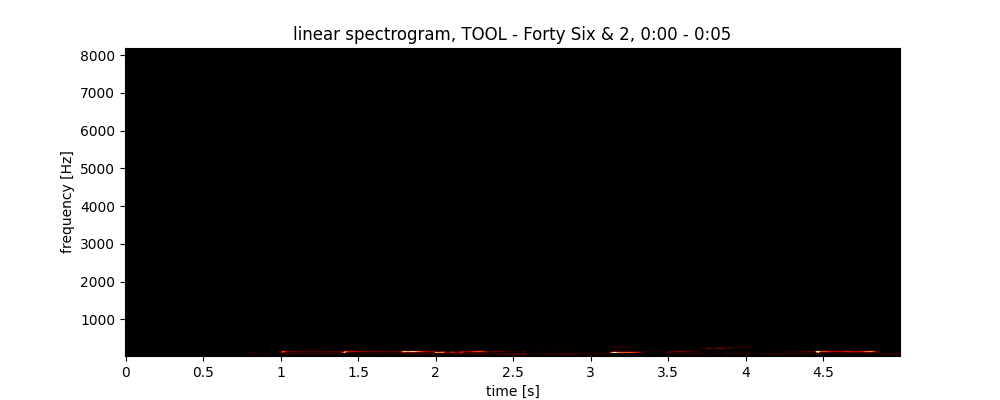
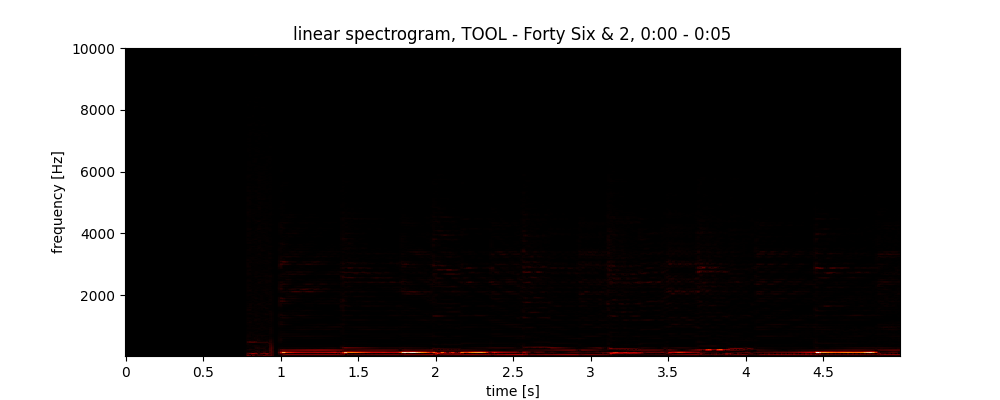
linear spectrogram fix

diff --git a/classes/spectrograms/LinearSpectrogram.py b/classes/spectrograms/LinearSpectrogram.py
@@ -23,7 +23,7 @@ class LinearSpectrogramProcessor(SpectrogramProcessorBase):
             y_resampled = librosa.resample(y, orig_sr=original_sr, target_sr=self.sample_rate)
 
             stft = librosa.stft(y_resampled, n_fft=self.window_length, win_length=2048, window='hann', hop_length=self.hop_length)
-            magnitude_spectrogram = np.abs(stft) ** 2
+            magnitude_spectrogram = np.abs(stft)
 
             spectrogram_transposed = magnitude_spectrogram.T
             return spectrogram_transposed
@@ -44,6 +44,6 @@ class LinearSpectrogramProcessor(SpectrogramProcessorBase):
         plt.ylabel('frequency [Hz]')
         plt.xlabel('time [s]')
         plt.title('linear spectrogram')
+        plt.ylim(self.f_min, self.f_max)
         plt.tight_layout()
         plt.show()
-

diff --git a/test_files/test_spectrogram.py b/test_files/test_spectrogram.py
@@ -23,7 +23,7 @@ tf.get_logger().setLevel(logging.ERROR)
 # first_k, first_v = first_track
 # # chericherilady = AudioTrack(audio_path=first_v.audio_path)
 spectrogram_processor_factory = SpectrogramProcessorFactory()
-mel_preprocessor = spectrogram_processor_factory.create_spectrogram_processor('db')
+mel_preprocessor = spectrogram_processor_factory.create_spectrogram_processor('lin')
 pre_processor = mel_preprocessor
 # spectrogram_sequence = SpectrogramSequence(
 #     data_sequence_tracks = tracks,
@@ -31,7 +31,7 @@ pre_processor = mel_preprocessor
 #     data_sequence_pad_frames=2
 # )
 
-spectrogram = pre_processor.process('')
+spectrogram = pre_processor.process('tool_30s.mp3')
 pre_processor.plot_spectrogram(spectrogram, duration_s=5)
 
 # print(spectrogram[:100])
